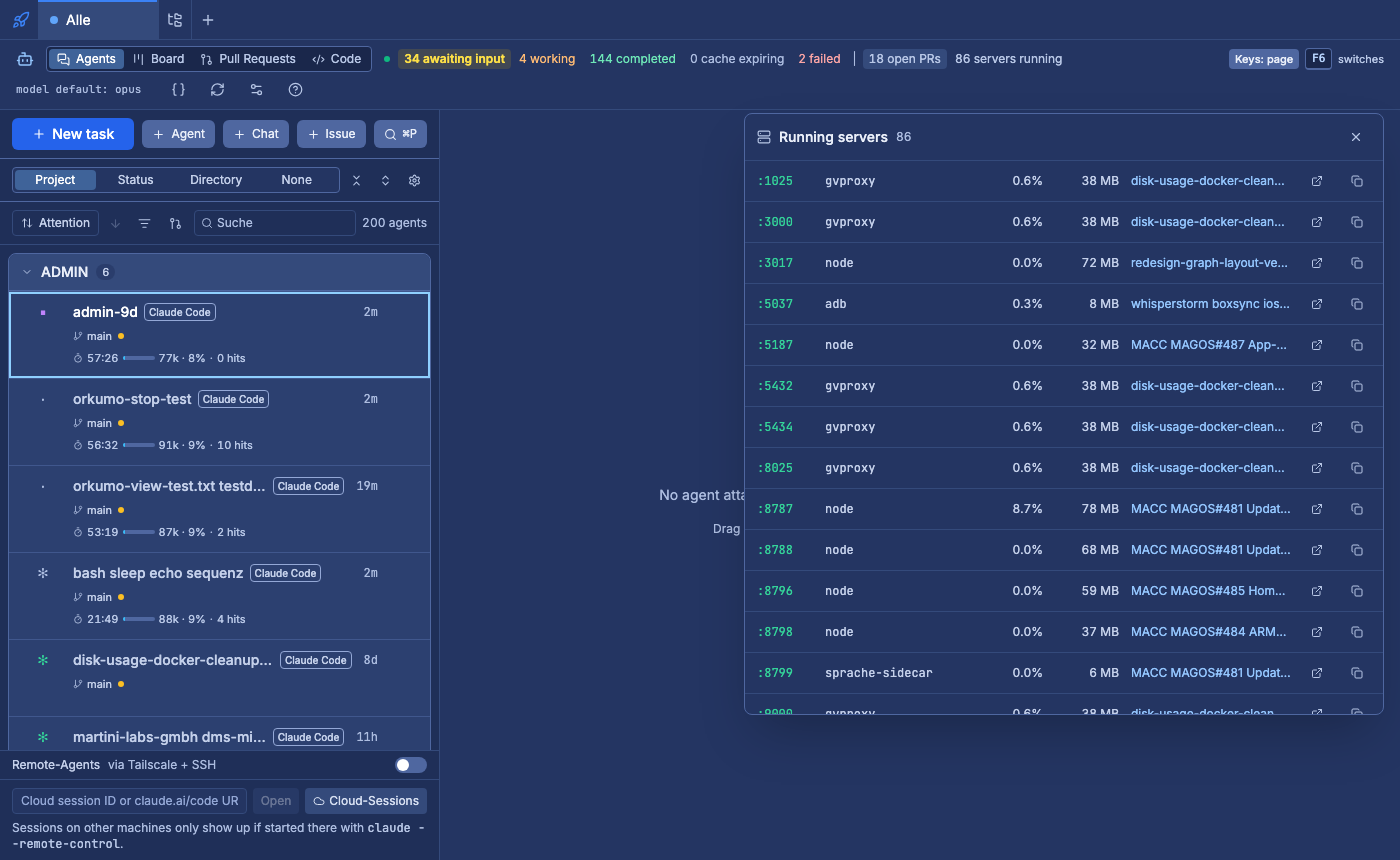
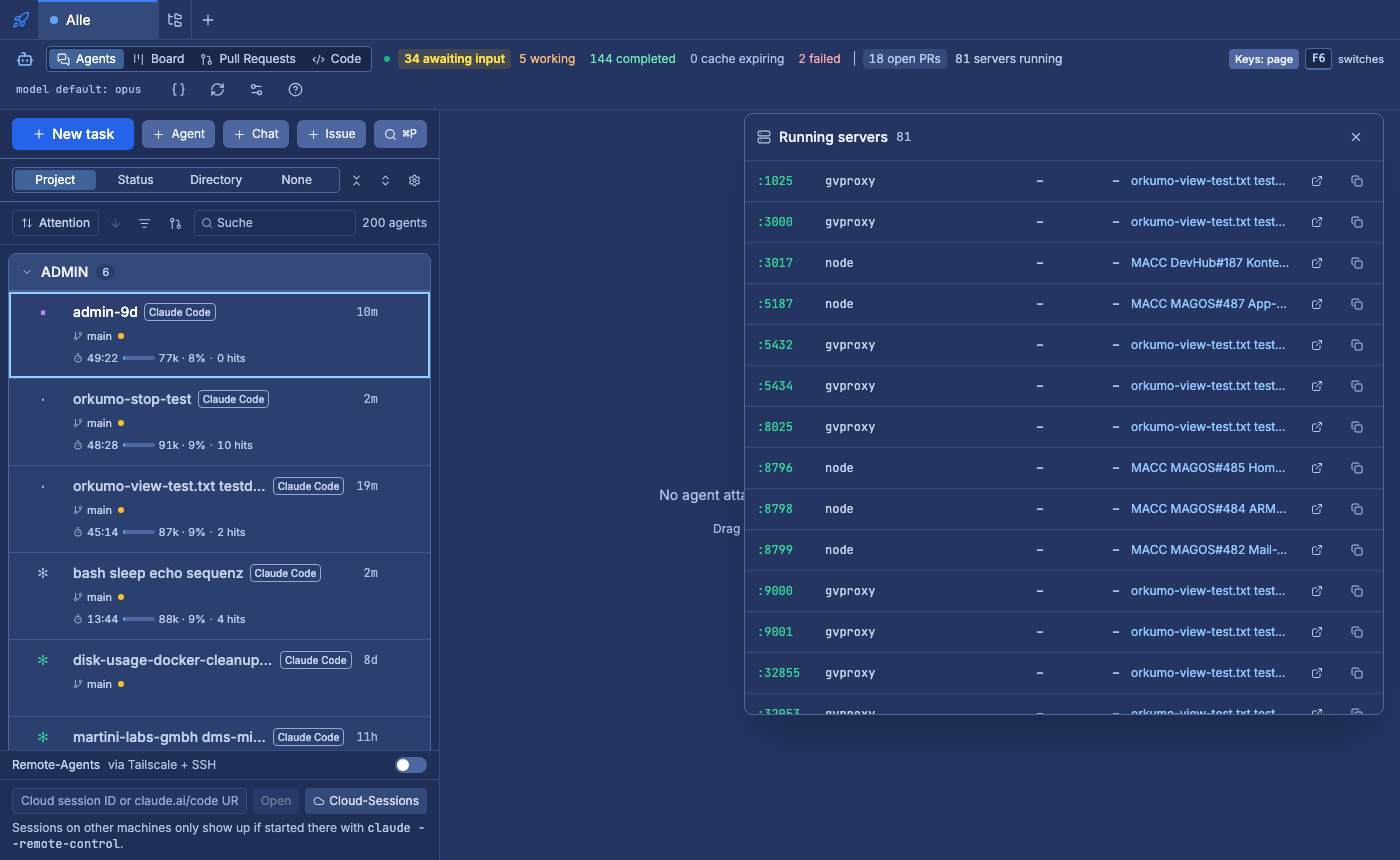
fix(agents): only live sessions own servers, fresh ownership check and origin check on stop (#243)
Review findings: finished sessions no longer keep their worktree server,
stop re-derives ownership from fresh scans, an in-flight compute cannot
restore the pre-kill snapshot, cross-origin stop requests get 403.

Claude-Session: https://claude.ai/code/session_01D4z4T7VBAq5MEESqYx562Y

diff --git a/server/services/agentContextService.js b/server/services/agentContextService.js
@@ -525,7 +525,8 @@ export function parseParents(output) {
 }
 
 /**
- * Which session owns each listening server: a session whose pid is an ancestor of the server
+ * Which session owns each listening server. Only live sessions count (pid present in parents): a
+ * finished session's worktree dir must not keep its leftover server. A session whose pid is an ancestor of the server
  * process wins; otherwise the most specific session dir containing its cwd (dirOwnsServerCwd).
  * Unowned servers in a worktree or job dir are orphans; other unowned ones (databases, apps) are ignored.
  * @param {{key: string, dir: string, pid?: number|null}[]} sessions dir already resolved (realpath)
@@ -533,8 +534,9 @@ export function parseParents(output) {
  * @param {Map<number, number>} parents pid -> ppid
  * @returns {{owner: Map<object, string>, orphans: object[]}}
  */
-export function assignServers(sessions, servers, parents) {
-  const byPid = new Map(sessions.filter((s) => s.pid).map((s) => [s.pid, s.key]));
+export function assignServers(allSessions, servers, parents) {
+  const sessions = allSessions.filter((s) => s.pid && parents.has(s.pid));
+  const byPid = new Map(sessions.map((s) => [s.pid, s.key]));
   const owner = new Map();
   const orphans = [];
   for (const server of servers) {
@@ -563,6 +565,23 @@ export function assignServers(sessions, servers, parents) {
 
 async function scanParents() {
   return parseParents(await run('ps', ['-axo', 'pid=,ppid='], undefined, 5000, { lenient: true }));
+}
+
+const sessionDir = (s) => (isDir(s.worktree) ? s.worktree : isDir(s.cwd) ? s.cwd : null);
+
+/** Listening servers (cwd resolved) and which session owns each, from the current lsof/ps scans. */
+async function scanOwnership(sessions) {
+  const [listening, parents] = await Promise.all([listeningServers(), processParents()]);
+  const resolved = listening.map((l) => ({ ...l, cwd: real(l.cwd) }));
+  const owned = sessions.filter(sessionDir);
+  return {
+    resolved,
+    ...assignServers(
+      owned.map((s) => ({ key: s.id, dir: real(sessionDir(s)), pid: s.pid })),
+      resolved,
+      parents
+    ),
+  };
 }
 
 async function scanListeningServers() {
@@ -645,7 +664,7 @@ function isDir(p) {
  */
 async function computeAgentContexts() {
   const sessions = await agentService.listSessions({ all: true });
-  const dirOf = (s) => (isDir(s.worktree) ? s.worktree : isDir(s.cwd) ? s.cwd : null);
+  const dirOf = sessionDir;
   const dirs = [...new Set(sessions.map(dirOf).filter(Boolean))];
   const repos = new Map();
   await mapLimit(dirs, CONCURRENCY, async (dir) => repos.set(dir, await gitInfo(dir)));
@@ -653,14 +672,7 @@ async function computeAgentContexts() {
   const remotes = new Map();
   await mapLimit(slugs, CONCURRENCY, async (slug) => remotes.set(slug, await ghInfo(slug)));
 
-  const [listening, parents] = await Promise.all([listeningServers(), processParents()]);
-  const resolved = listening.map((l) => ({ ...l, cwd: real(l.cwd) }));
-  const realDirs = new Map(dirs.map((d) => [d, real(d)]));
-  const { owner, orphans } = assignServers(
-    sessions.filter(dirOf).map((s) => ({ key: s.id, dir: realDirs.get(dirOf(s)), pid: s.pid })),
-    resolved,
-    parents
-  );
+  const { resolved, owner, orphans } = await scanOwnership(sessions);
   // eslint-disable-next-line no-unused-vars -- cwd is stripped from the response
   const publicServer = ({ cwd, ...server }) => server;
   const contexts = {};
@@ -690,6 +702,7 @@ async function computeAgentContexts() {
 // Stale-while-revalidate: gh + lsof take 7-12s cold, so serve the last result and refresh behind it.
 const CONTEXT_FRESH_MS = 10_000;
 let contextCache = null; // { at, value, promise }
+let contextGeneration = 0;
 
 /** Pids of the listening servers the dashboard shows: the only ones the stats route may report */
 export async function getKnownServerPids() {
@@ -713,16 +726,18 @@ export async function getOrphanServers() {
 }
 
 /**
- * SIGTERM an orphan server. Only pids the panel lists as orphans, re-checked against a fresh
- * lsof scan (same pid, port and cwd), so a reused pid or a server a session meanwhile owns is not hit.
+ * SIGTERM an orphan server. Only pids the panel lists as orphans, re-checked against a fresh session
+ * list and fresh lsof/ps scans (same pid, port and cwd, still unowned), so a reused pid or a server a
+ * resumed session meanwhile owns is not hit.
  * @returns {Promise<boolean>} false when pid is no (longer an) orphan
  */
 export async function stopOrphanServer(pid) {
-  const orphan = (await getOrphanServers()).find((server) => server.pid === pid);
-  if (!orphan || pid === process.pid) return false;
+  const listed = (await getOrphanServers()).find((server) => server.pid === pid);
+  if (!listed || pid === process.pid) return false;
   serverScan = null;
-  const fresh = await listeningServers();
-  if (!fresh.some((l) => l.pid === pid && l.port === orphan.port && real(l.cwd) === orphan.cwd)) {
+  parentScan = null;
+  const { orphans } = await scanOwnership(await agentService.listSessions({ all: true }));
+  if (!orphans.some((o) => o.pid === pid && o.port === listed.port && o.cwd === listed.cwd)) {
     return false;
   }
   try {
@@ -730,8 +745,11 @@ export async function stopOrphanServer(pid) {
   } catch {
     return false;
   }
+  // a compute still in flight holds the pre-kill scan: it must not repopulate the cache
+  contextGeneration++;
   contextCache = null;
   serverScan = null;
+  parentScan = null;
   return true;
 }
 
@@ -740,13 +758,15 @@ function agentSnapshot() {
     return Promise.resolve(contextCache.value);
   }
   if (!contextCache?.promise) {
+    const generation = contextGeneration;
     const promise = computeAgentContexts().then(
       (value) => {
-        contextCache = { at: Date.now(), value, promise: null };
+        if (generation === contextGeneration)
+          contextCache = { at: Date.now(), value, promise: null };
         return value;
       },
       (error) => {
-        if (contextCache) contextCache.promise = null;
+        if (contextCache && generation === contextGeneration) contextCache.promise = null;
         throw error;
       }
     );

diff --git a/test/orphanServers.test.js b/test/orphanServers.test.js
@@ -23,12 +23,26 @@ const {
 } = await import('../server/services/agentContextService.js');
 
 const home = os.homedir();
-const assign = (sess, servers, parents = new Map()) => {
-  const { owner, orphans } = assignServers(sess, servers, parents);
+// Sessions count as live (their pid runs) unless the test passes its own process table.
+const assign = (sess, servers, parents) => {
+  const table = parents ?? new Map(sess.filter((s) => s.pid).map((s) => [s.pid, 1]));
+  const { owner, orphans } = assignServers(sess, servers, table);
   return { ownerOf: (s) => owner.get(s) ?? null, orphans };
 };
 
 describe('assignServers (#243)', () => {
+  it('AC-1: finished session in the worktree (no or dead pid) does not keep its server', () => {
+    const server = { pid: 50, cwd: '/r/app/.claude/worktrees/x/server' };
+    const sess = [
+      { key: 'main', dir: '/r/app', pid: 10 },
+      { key: 'done', dir: '/r/app/.claude/worktrees/x', pid: null },
+      { key: 'dead', dir: '/r/app/.claude/worktrees/x', pid: 77 },
+    ];
+    const { ownerOf, orphans } = assign(sess, [server], new Map([[10, 1]]));
+    expect(ownerOf(server)).toBeNull();
+    expect(orphans).toEqual([server]);
+  });
+
   it('AC-1: server in <dir>/.claude/worktrees/x is no server of the session in <dir>', () => {
     const server = { pid: 50, cwd: '/r/app/.claude/worktrees/x/server' };
     const { ownerOf, orphans } = assign([{ key: 'main', dir: '/r/app', pid: 10 }], [server]);
@@ -129,7 +143,7 @@ describe('orphan servers end to end (#243, AC-3, AC-5)', () => {
         '-e',
         `const c=require('child_process').spawn(process.execPath,['-e',${JSON.stringify(listen)}],{cwd:${JSON.stringify(path.join(root, 'repo/.claude/worktrees'))},stdio:['ignore','inherit','inherit']});setInterval(()=>{},1e6)`,
       ],
-      { cwd: root }
+      { cwd: root, detached: true }
     );
     fs.mkdirSync(path.join(root, 'repo/.claude/worktrees/other'), { recursive: true });
     await Promise.all([firstLine(orphanProc), firstLine(sessionProc)]);
@@ -146,7 +160,7 @@ describe('orphan servers end to end (#243, AC-3, AC-5)', () => {
 
   afterAll(() => {
     orphanProc?.kill('SIGKILL');
-    sessionProc?.kill('SIGKILL');
+    if (sessionProc) process.kill(-sessionProc.pid, 'SIGKILL'); // whole group: the listening child too
     fs.rmSync(root, { recursive: true, force: true });
   });
 

diff --git a/components/AgentsView/ServersPanel.tsx b/components/AgentsView/ServersPanel.tsx
@@ -68,11 +68,11 @@ export const ServersPanel: React.FC<ServersPanelProps> = ({ rows, onSelectAgent,
     setStopError(null);
     stopOrphanServer(pid)
       .then(() => setOrphans((list) => list.filter((o) => o.pid !== pid)))
-      .catch((error: Error) => setStopError(error.message))
-      .finally(() => {
-        setConfirmPid(null);
+      .catch((error: Error) => {
+        setStopError(error.message);
         loadOrphans();
-      });
+      })
+      .finally(() => setConfirmPid(null));
   };
 
   const copy = (port: number) => {
@@ -179,7 +179,7 @@ export const ServersPanel: React.FC<ServersPanelProps> = ({ rows, onSelectAgent,
             <h3 className="px-3 pt-2 pb-1 text-xs font-medium text-amber-300">
               Verwaist <span className="text-gray-500 tabular-nums">{orphans.length}</span>
               <span className="ml-2 font-normal text-gray-500">
-                no running session owns these (finished worktree or job)
+                no running session owns these (worktree or job dir)
               </span>
             </h3>
             {stopError && <p className="px-3 pb-1 text-xs text-red-400">{stopError}</p>}

diff --git a/server/index.js b/server/index.js
@@ -1568,6 +1568,11 @@ app.get('/api/agents/servers/orphans', agentLimiter, async (req, res) => {
 
 // Only pids currently listed as orphans may be stopped: no killing of arbitrary processes.
 app.post('/api/agents/servers/:pid/stop', agentLimiter, async (req, res) => {
+  // A bodyless POST needs no CORS preflight: refuse cross-site pages before killing anything
+  const origin = req.get('origin');
+  if ((origin && !isAllowedOrigin(origin)) || req.get('sec-fetch-site') === 'cross-site') {
+    return res.status(403).json({ error: 'Cross-origin request refused' });
+  }
   const pid = Number(req.params.pid);
   if (!/^\d{1,9}$/.test(req.params.pid) || pid <= 1) {
     return res.status(400).json({ error: 'pid must be a positive integer' });

diff --git a/docs/review/243/review.md b/docs/review/243/review.md
@@ -1,0 +1,15 @@
+# Unabhängiges Review #243 (mw:reviewer, nur Vertrag + Diff)
+
+Stand: Commit 7c2195d. Ergebnis: kein Blocker, 1 Major, 5 Minor. Tests und tsc grün.
+
+| Befund    | Inhalt                                                                                                                                                      | Umgang                                                                                                                                            |
+| --------- | ----------------------------------------------------------------------------------------------------------------------------------------------------------- | ------------------------------------------------------------------------------------------------------------------------------------------------- |
+| M-1 major | Beendete Sessions (`listSessions({all:true})`, ohne laufende pid) besaßen weiter per cwd-Regel den Server ihres Worktrees; der tauchte nie als verwaist auf | behoben: `assignServers` zählt nur Sessions, deren pid im aktuellen `ps`-Snapshot läuft; Test „finished session in the worktree (no or dead pid)“ |
+| m-1       | Stop prüfte frisch pid/port/cwd, aber nicht den Besitz (Session per respawn wieder da)                                                                      | behoben: `stopOrphanServer` rechnet die Zuordnung mit frischer Session-Liste und frischem lsof/ps neu                                             |
+| m-2       | Laufende Berechnung konnte nach dem Stop den alten Snapshot zurückschreiben                                                                                 | behoben: Generationszähler im Snapshot-Cache; UI lädt nach erfolgreichem Stop nicht sofort neu                                                    |
+| m-3       | CSRF: bodyloser POST braucht keinen Preflight                                                                                                               | behoben: Stop-Route lehnt fremde `Origin` / `Sec-Fetch-Site: cross-site` mit 403 ab; `scripts/review/243.sh` prüft das                            |
+| m-4       | Live-Server ohne Session (z. B. aus einem Orkumo-Terminal im Worktree) gelten als verwaist; UI-Text „finished worktree or job“ dann falsch                  | Text auf „worktree or job dir“ geändert; Regel entspricht der Vertragsannahme                                                                     |
+| m-5       | pid-Wiederverwendung einer beendeten Session                                                                                                                | durch M-1-Fix stark eingeschränkt (nur laufende pids); Rest akzeptiert                                                                            |
+| nit       | Tests in neuer Datei `test/orphanServers.test.js` statt `test/agentContextService.test.js`                                                                  | bewusst: eigene Mocks (agentService) für den End-to-End-Teil                                                                                      |
+
+Angriffe auf die Stop-Route, die laut Review hielten: Eingabevalidierung (`abc`, `-1`, `0`, `1`, `1e3` → 400), eigene pid → 404, pid-Reuse (Abgleich mit frischem Scan), nur SIGTERM auf genau die pid, `agentLimiter`, ppid-Zyklen.
